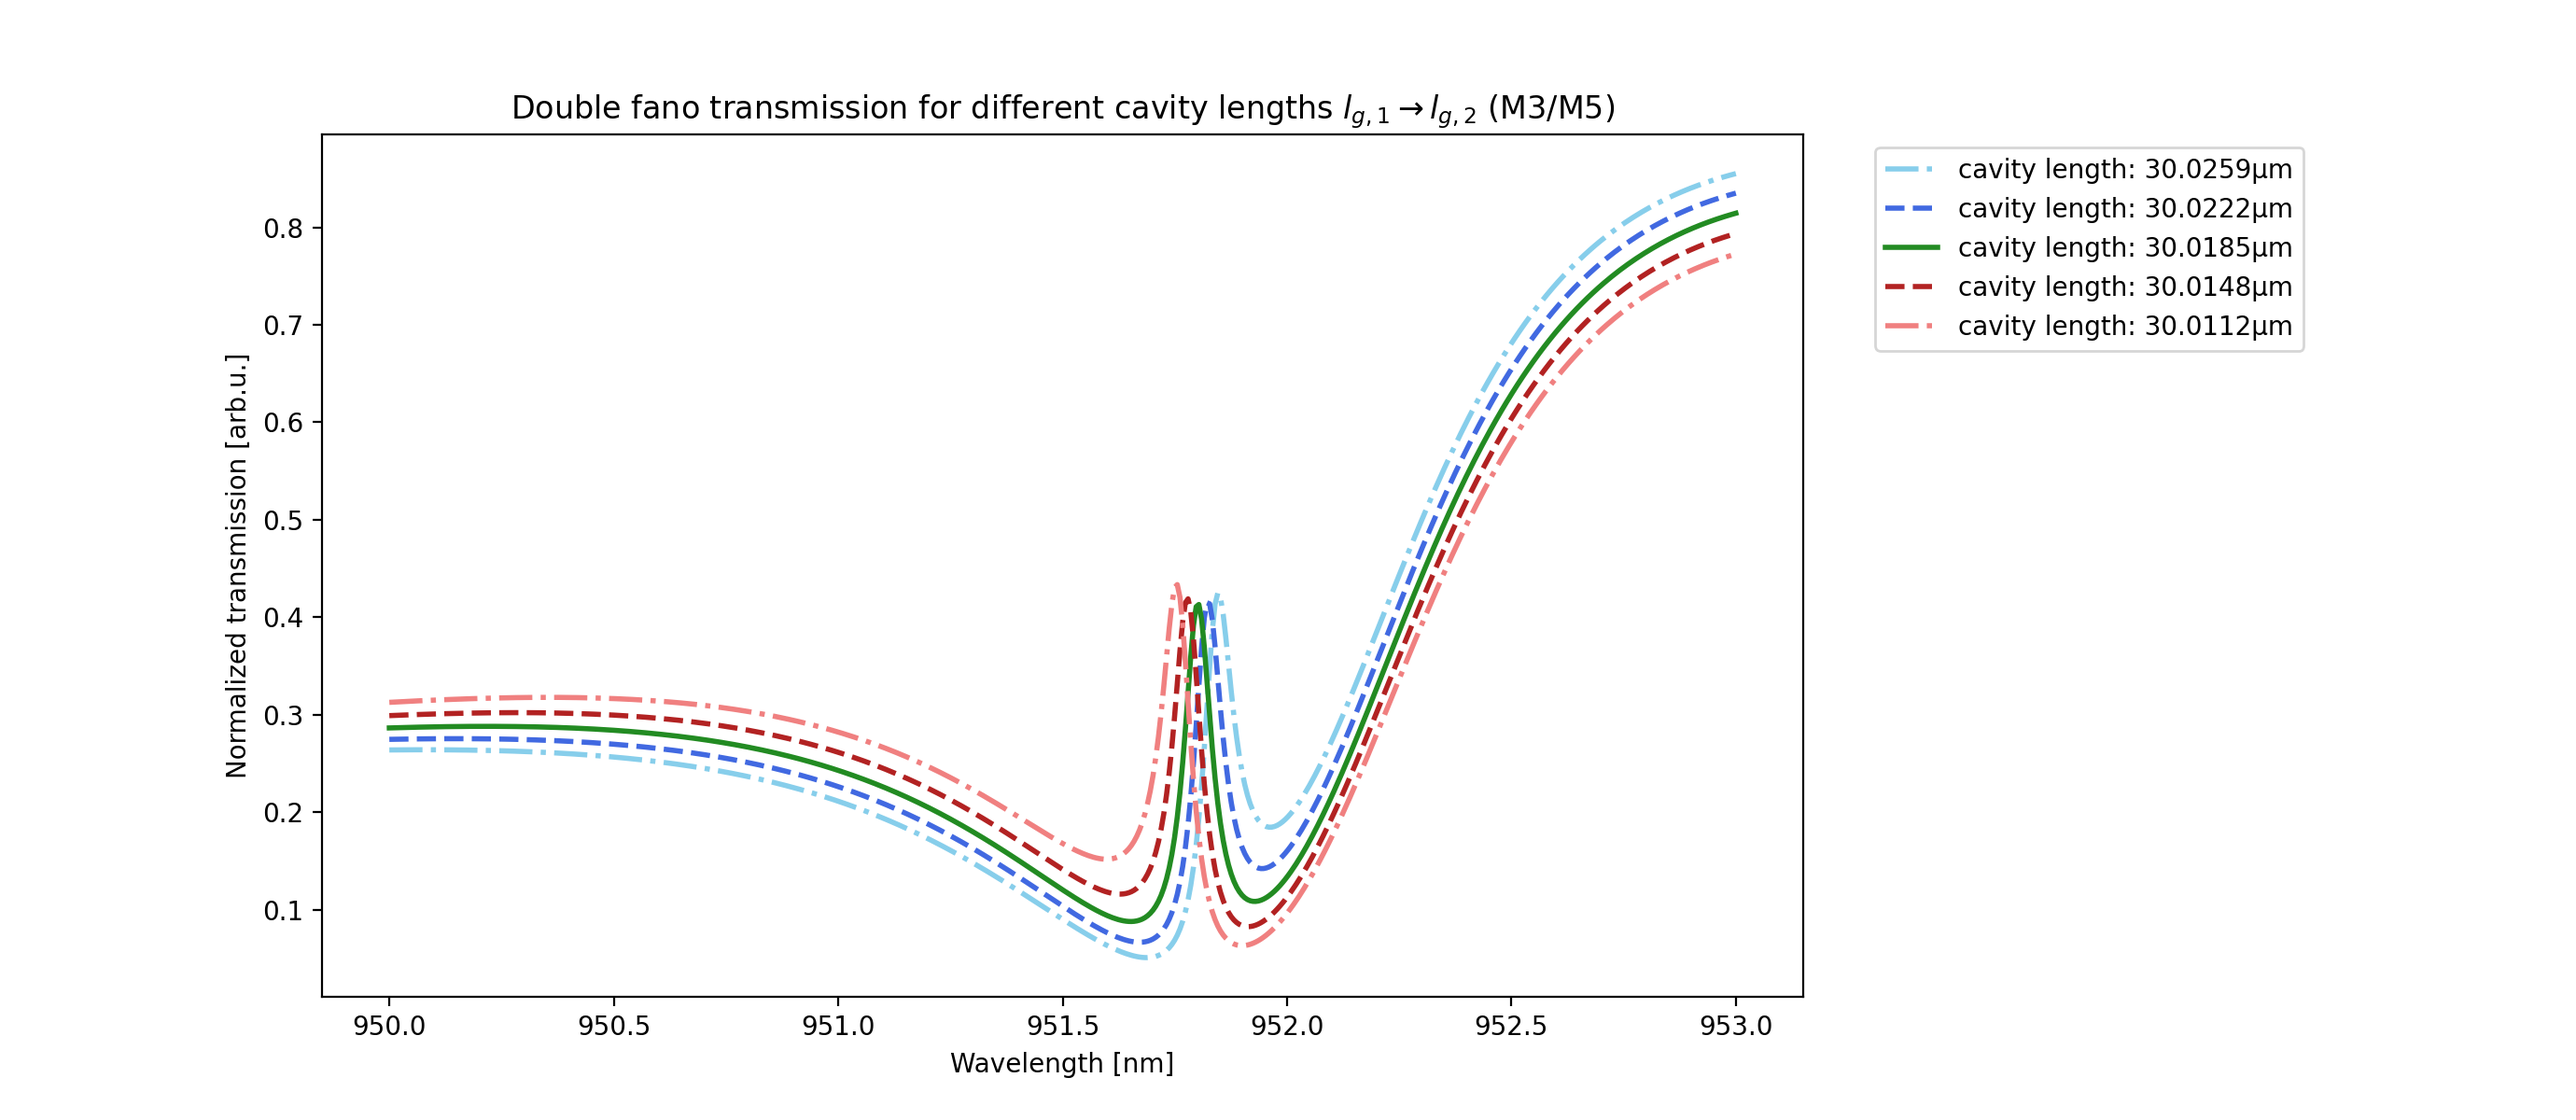
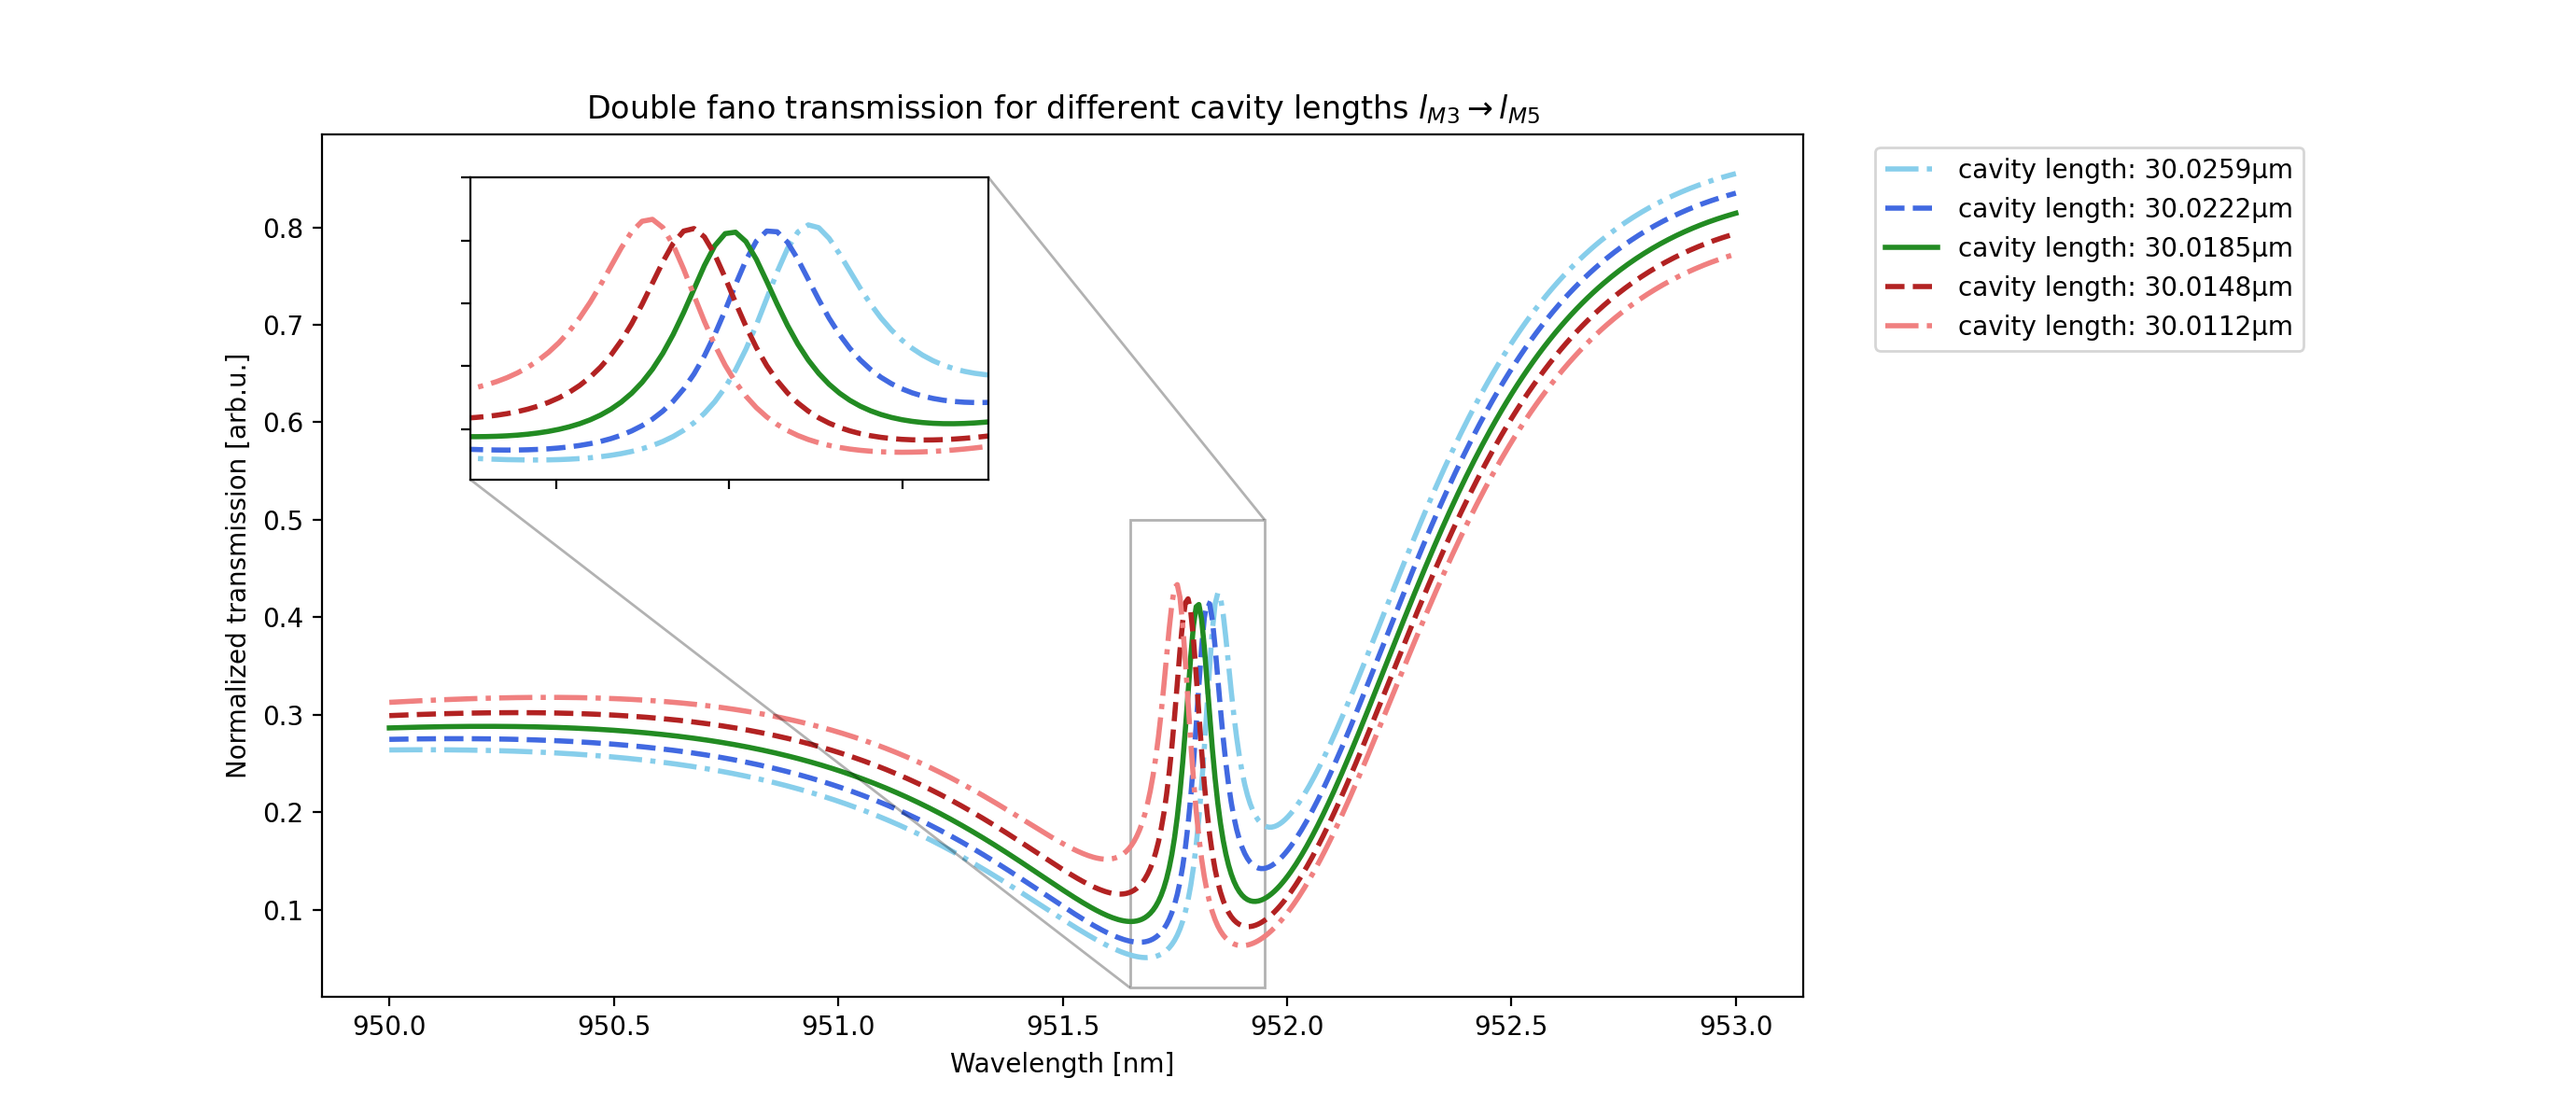
-

diff --git a/fano_theory.py b/fano_theory.py
@@ -23,6 +23,7 @@ params2 = M5.lossy_fit([952,952,0.6,1,0.1])
 # α  -> loss factor 
 
 #λs = np.linspace(951, 952.5, 500)
+#λs = np.linspace(951.65, 951.95, 500)
 λs = np.linspace(950, 953, 500)
 #λs = np.linspace(910, 980, 10000)
 #λs = np.linspace(951.7, 951.85, 200)
@@ -394,14 +395,25 @@ def detuning_plot(Δs: list, params: list, λs: np.array, intracavity=False, los
     plt.legend()
     plt.show()
 
-def cavity_length_plot(ls: list, params1: list, params2: list, λs: np.array, intracavity=False, losses=True):
-    plt.figure(figsize=(15,6))
+def cavity_length_plot(ls: list, params1: list, params2: list, λs: np.array, intracavity=False, losses=True, zoom=False):
+    fig, ax = plt.subplots(figsize=(15,6))
     linestyles = ["-.", "--", "-", "--", "-."]
     colors = ["skyblue","royalblue","forestgreen", "firebrick", "lightcoral"]
+    Ts_inset = []
     for l, paint, style in zip(ls, colors, linestyles):
         Ts = dual_fano_transmission(params1, params2, l, λs, intracavity=intracavity, losses=losses)
-        plt.plot(λs, Ts, color=paint, linestyle=style, linewidth=2, label="cavity length: %sμm" % str(round(l*1e-3,4)))
-    plt.title("Double fano transmission for different cavity lengths %s (M3/M5)" %(r"$l_{g,1} \rightarrow l_{g,2}$")) 
+        ax.plot(λs, Ts, color=paint, linestyle=style, linewidth=2, label="cavity length: %sμm" % str(round(l*1e-3,4)))
+        Ts_inset.append(Ts)
+    if zoom == True:
+        axins = ax.inset_axes([0.1, 0.60, 0.35, 0.35])
+        for Ts, paint, style in zip(Ts_inset,colors,linestyles):
+            axins.plot(λs, Ts, color=paint, linestyle=style, linewidth=2)
+        axins.set_xlim(951.65, 951.95)
+        axins.set_ylim(0.02, 0.5)
+        axins.set_xticklabels([])
+        axins.set_yticklabels([])
+        mark_inset(ax, axins, loc1=1, loc2=3, edgecolor="black", alpha=0.3)
+    plt.title("Double fano transmission for different cavity lengths %s" %("$l_{M3} \\rightarrow l_{M5}$")) 
     plt.xlabel("Wavelength [nm]")
     plt.ylabel("Normalized transmission [arb.u.]")
     plt.legend(bbox_to_anchor=(1.04, 1), loc="upper left")
@@ -575,7 +587,7 @@ def line_width_comparison(params1: list, params2: list, length: float, intracavi
 #params2[0] += Δ
 #params2[1] += Δ
 #ls = np.linspace(double_cavity_length(params1,params2,λs,lmin=lmin), double_cavity_length(params2,params1,λs,lmin=lmin), 5)
-#cavity_length_plot(ls, params1, params2, λs, intracavity=False, losses=True)
+#cavity_length_plot(ls, params1, params2, λs, intracavity=False, losses=True, zoom=True)
 
 
 #### for line width comparison of the single and double fano models ####
